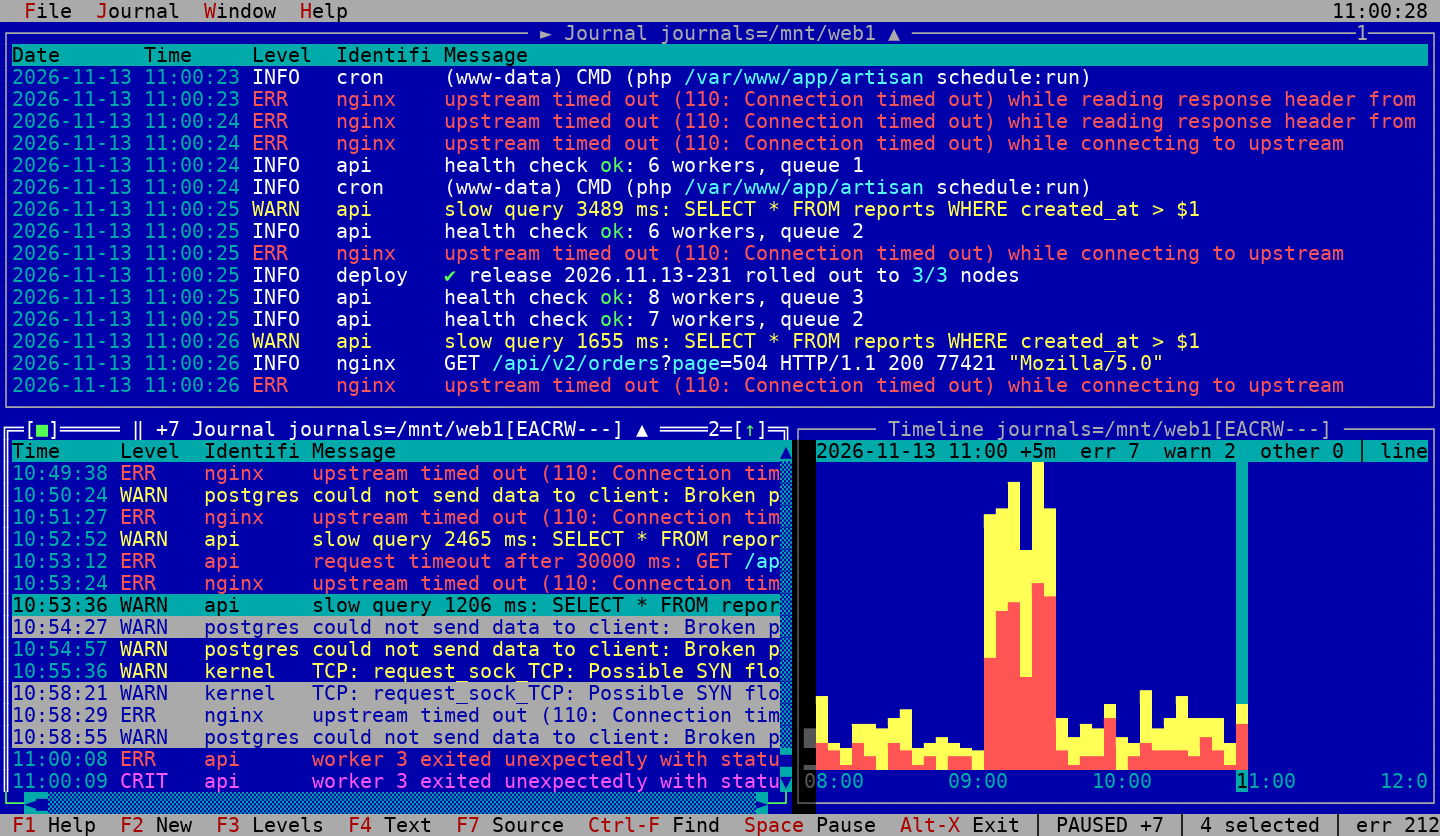
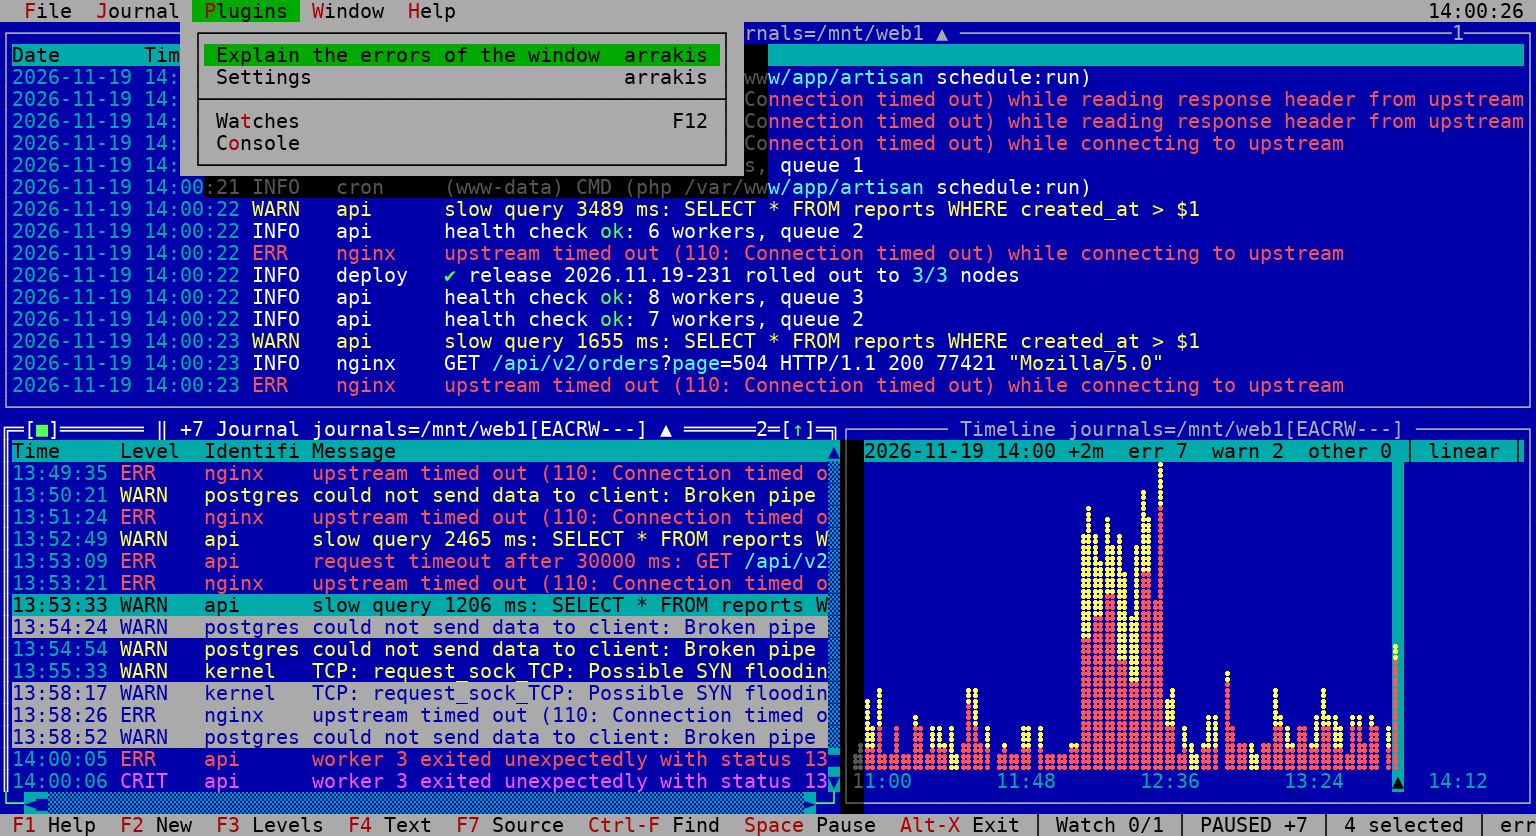
README: screenshot of 0.17, the timeline in Braille dots and the Plugins menu open

diff --git a/README.md b/README.md
@@ -14,7 +14,7 @@ your choice, see [ARRAKIS.md](Documentation/ARRAKIS.md).
 Built on [magiblot/tvision](https://github.com/magiblot/tvision), libsystemd, PCRE2, Lua 5.4, libcurl and
 [lua-cjson](https://github.com/openresty/lua-cjson).
 
-![Three windows: the whole journal following, its warnings and errors paused with marked lines and 7 entries come meanwhile, and their timeline](screenshot.png)
+![Three windows: the whole journal following, its warnings and errors paused with marked lines and 7 entries come meanwhile, and their timeline in Braille dots; the Plugins menu open with the items of Arrakis, Watches and Console](screenshot.png)
 
 ## Features
 
